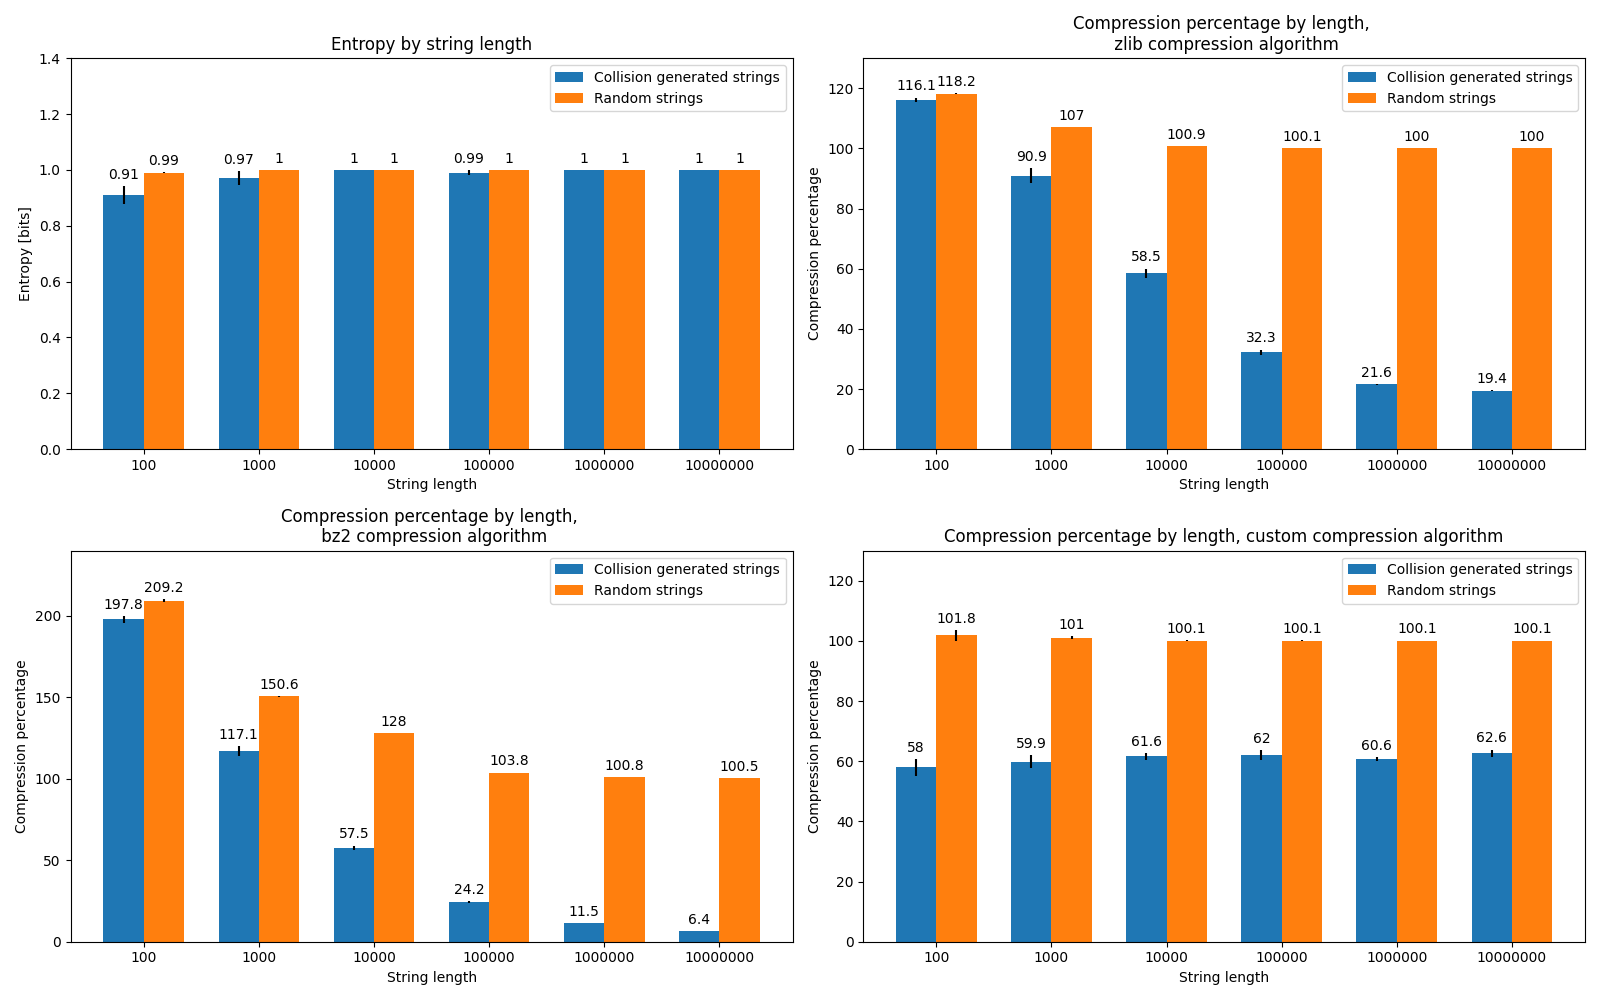
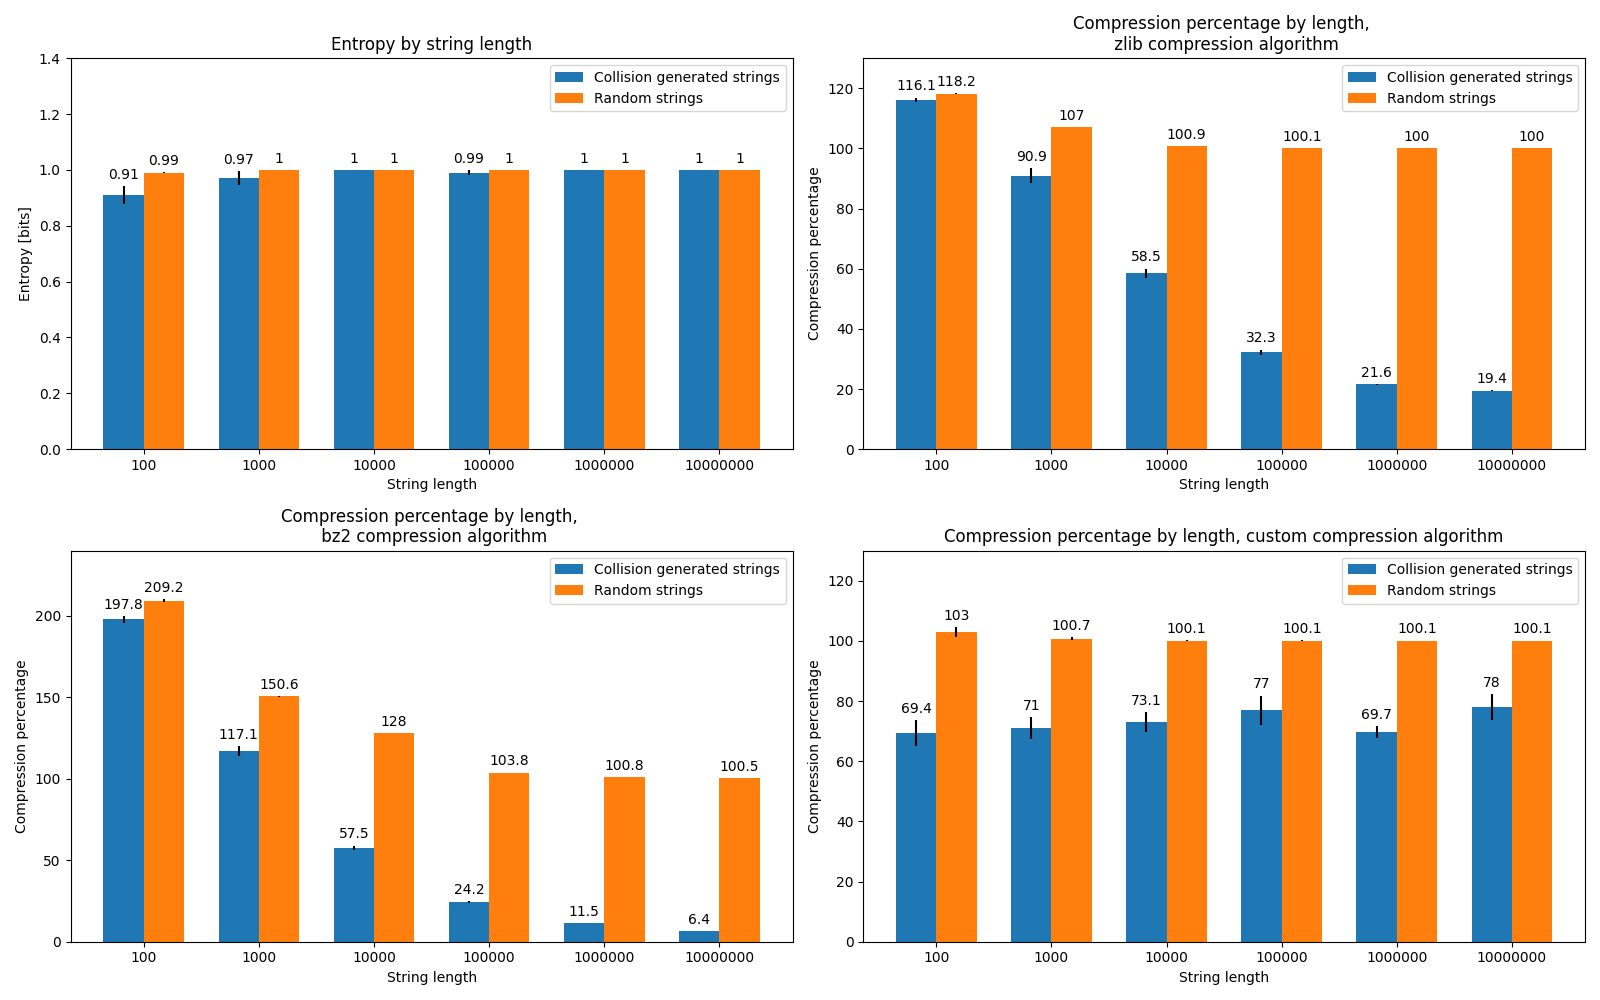
Latest plots

diff --git a/compression_comparison/unified_plot.py b/compression_comparison/unified_plot.py
@@ -47,7 +47,7 @@ for i in range(len(sizes)):
 
         comp_zlib = sys.getsizeof(zlib.compress(bites))
         comp_bz2 = sys.getsizeof(bz2.compress(bites))
-        comp_custom = len(encoder.encode_a(string))
+        comp_custom = len(encoder.encode_b(string))
 
         zlib_row.append(100 * comp_zlib / size)
         bz2_row.append(100 * comp_bz2 / size)
@@ -98,7 +98,7 @@ for i in range(len(sizes)):
 
         comp_zlib = sys.getsizeof(zlib.compress(bites))
         comp_bz2 = sys.getsizeof(bz2.compress(bites))
-        comp_custom = len(encoder.encode_a(randomString))
+        comp_custom = len(encoder.encode_b(randomString))
 
         zlib_row.append(100 * comp_zlib / size)
         bz2_row.append(100 * comp_bz2 / size)
